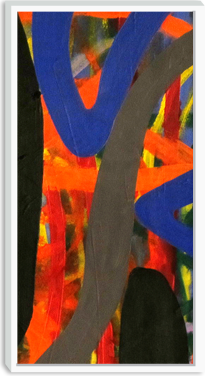
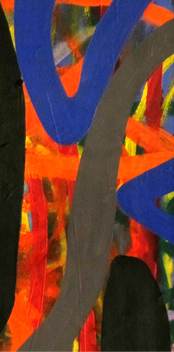
Fix padding in footer and change 2 images

diff --git a/_layouts/default.html b/_layouts/default.html
@@ -105,16 +105,18 @@
 		<footer class="news-event-teaser text-center-xs">
 			<div class="container">
 				<div class="col-sm-12" id="pie">
-					<div id="pie_izq" class="col-sm-6">
-						<span>
-							Copyright © Todos los Derechos Reservados
-							<a href="https://www.linkedin.com/company/rebaza-alcazar-&-de-las-casas-abogados-financieros?trk=biz-companies-cym" target="_blank">
-								<img src="images/logo_linkedin.png" style="width: 20px;height: 20px;">
-							</a>
-						</span>
-					</div>
-					<div id="pie_der" class="col-sm-6">
-						<span>Diseñado por <a href="http://www.agenciacranium.com/" target="_blank">Agencia Cranium</a></span>
+					<div class="row">
+						<div id="pie_izq" class="col-sm-6">
+							<span>
+								&copy; Copyright Todos los Derechos Reservados &nbsp;
+								<a href="https://www.linkedin.com/company/rebaza-alcazar-&-de-las-casas-abogados-financieros?trk=biz-companies-cym" target="_blank">
+									<img src="images/logo_linkedin.png" style="width: 20px;height: 20px;">
+								</a>
+							</span>
+						</div>
+						<div id="pie_der" class="col-sm-6">
+							<span>Diseñado por <a href="http://www.agenciacranium.com/" target="_blank">Agencia Cranium</a></span>
+						</div>
 					</div>
 				</div>
 			</div>
